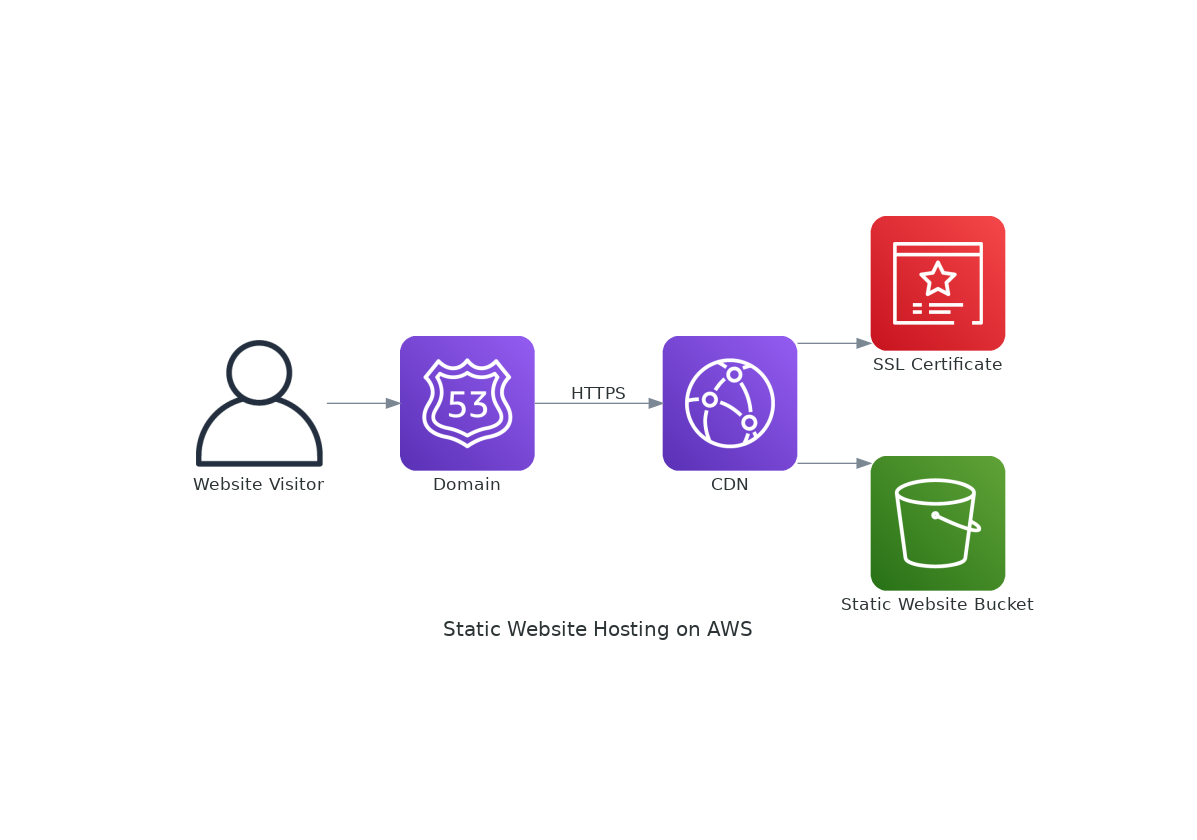
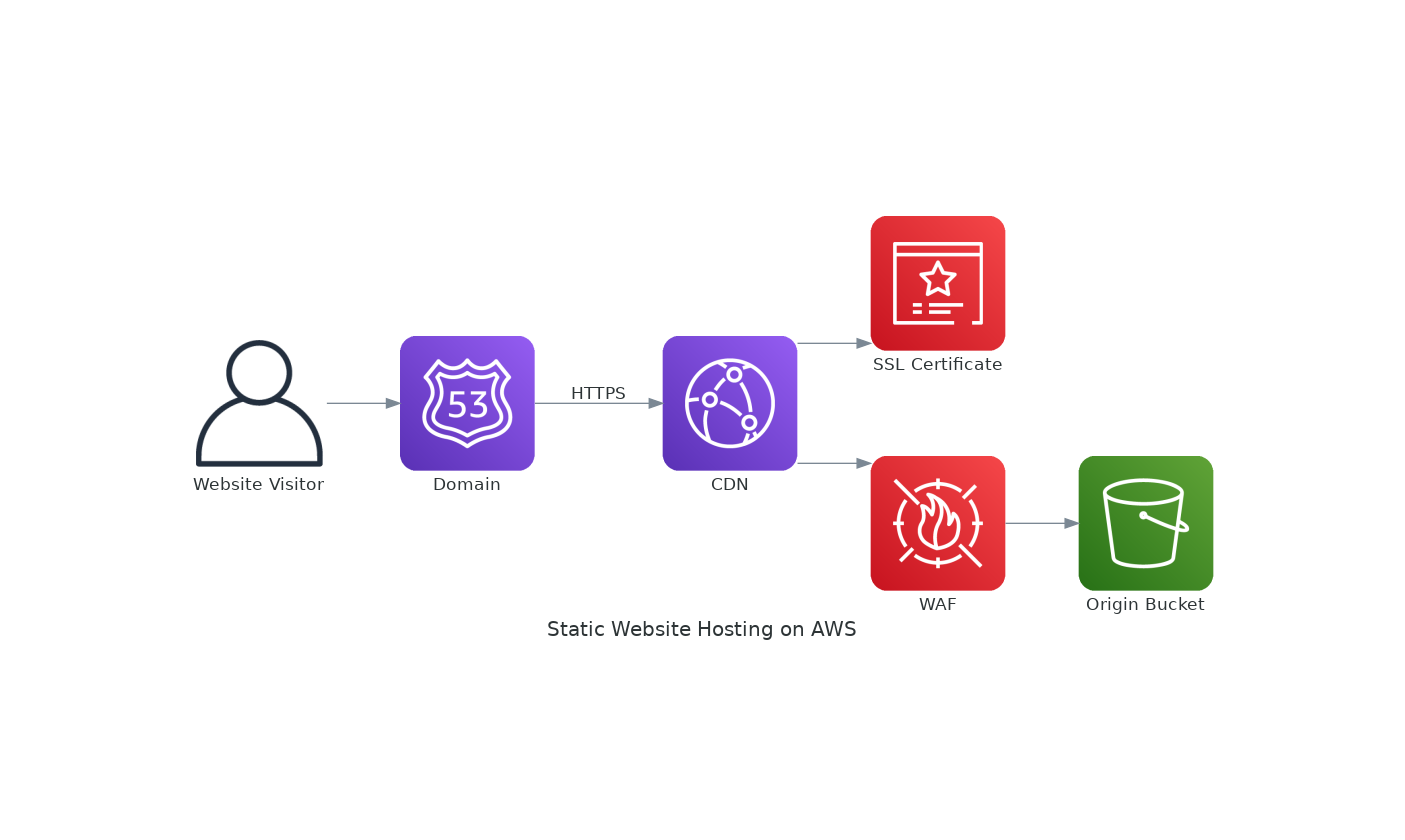
docs: Add WAF to the static_website diagram

Changed region(s): [[0.1236, 0.2476, 0.8655, 0.7429], [0.3709, 0.7429, 0.6182, 0.7738]]

diff --git a/docs/static_website/diagram.py b/docs/static_website/diagram.py
@@ -1,15 +1,16 @@
 from diagrams import Diagram, Edge
-from diagrams.aws.general import User
-from diagrams.aws.network import CloudFront, Route53
-from diagrams.aws.security import CertificateManager
+from diagrams.aws.network import Route53, CloudFront
+from diagrams.aws.security import CertificateManager, WAF
 from diagrams.aws.storage import S3
+from diagrams.aws.general import User
 
 with Diagram("Static Website Hosting on AWS", show=False, filename="static-website-aws"):
     user = User("Website Visitor")
     dns = Route53("Domain")
     cert = CertificateManager("SSL Certificate")
     cdn = CloudFront("CDN")
-    bucket = S3("Static Website Bucket")
+    waf = WAF("WAF")
+    bucket = S3("Origin Bucket")
 
-    user >> dns >> Edge(label="HTTPS") >> cdn >> bucket
+    user >> dns >> Edge(label="HTTPS") >> cdn >> waf >> bucket
     cdn >> cert
